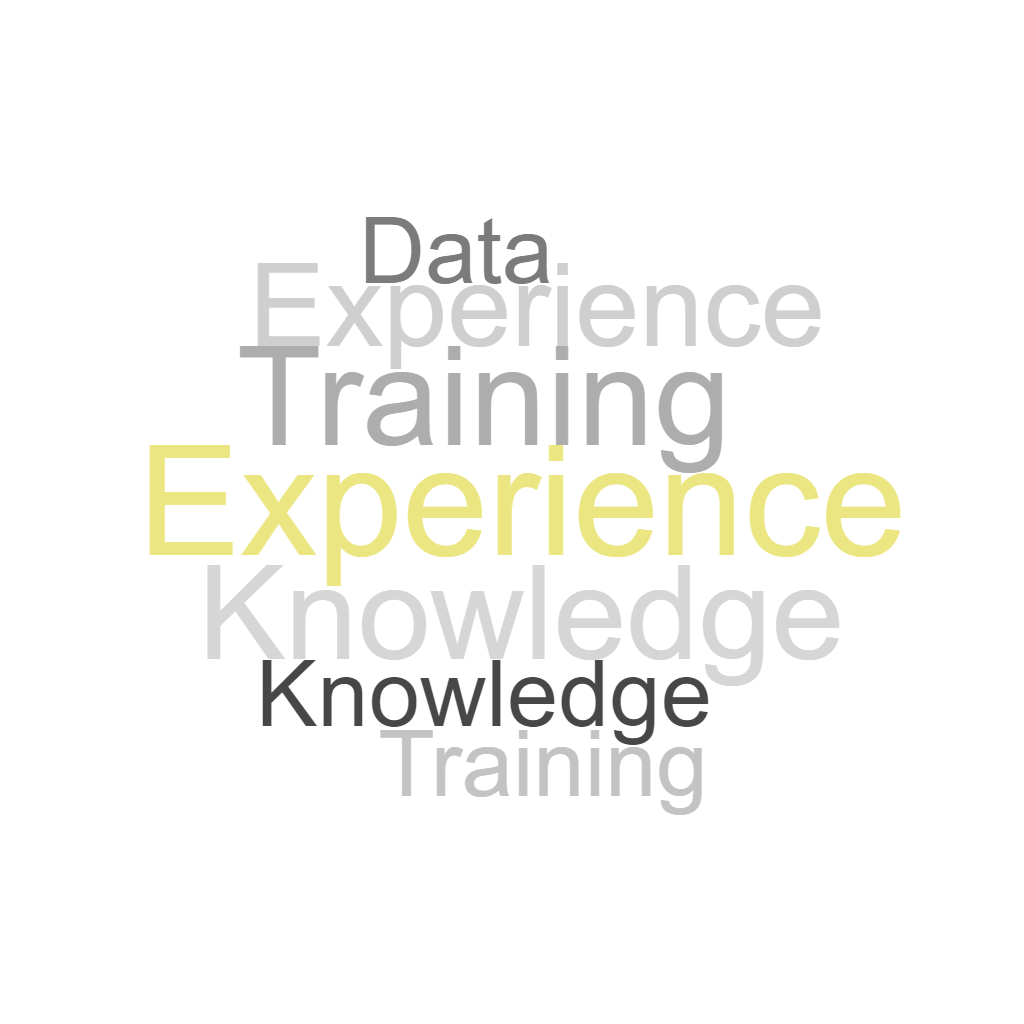
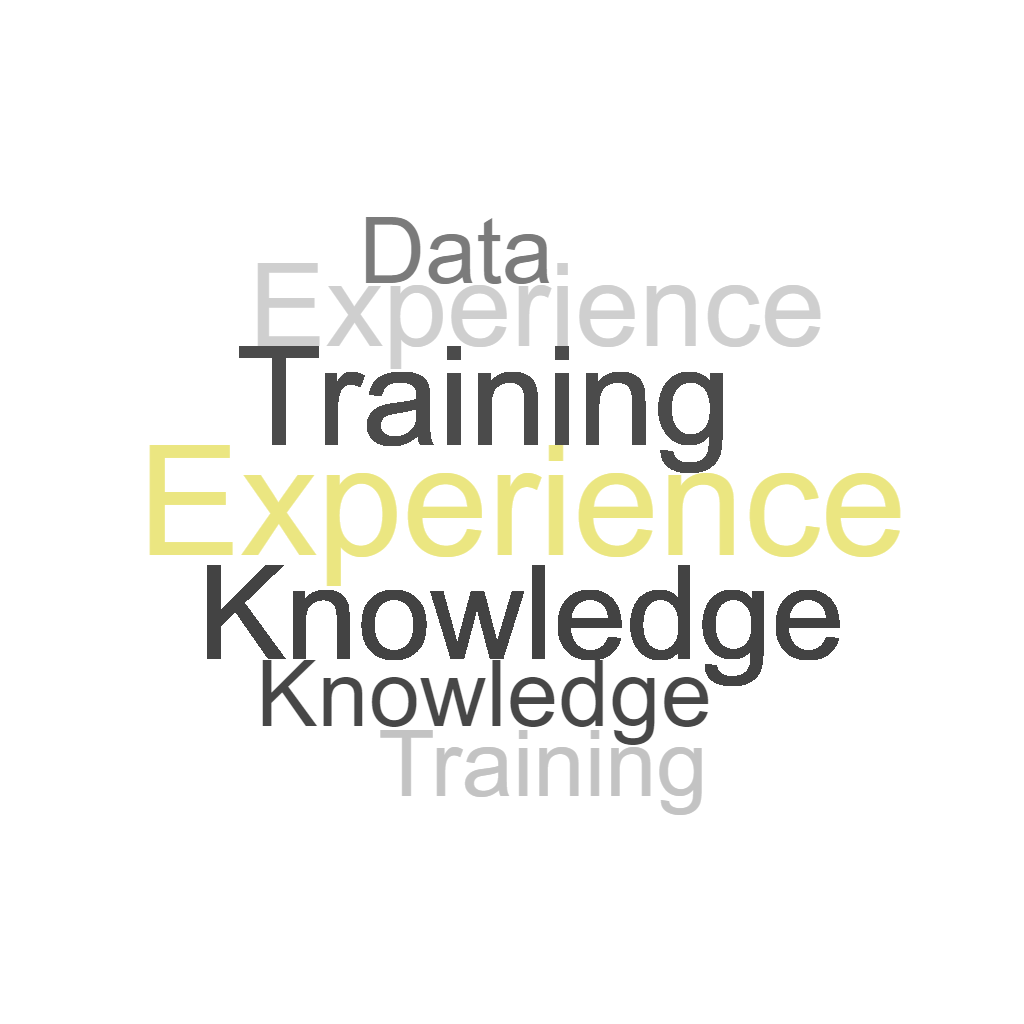
add game

Changed region(s): [[0.1875, 0.5312, 0.8438, 0.6875], [0.25, 0.3125, 0.7188, 0.4688]]

diff --git a/script.js b/script.js
@@ -1,6 +1,6 @@
 let numPhoto = 2;
 var i=0,j=0,k=0;
-var speed=70;
+var speed=200;
 var arrowOption = "exp";
 var expi = 0, proji = 0;
 const summary = "Hello! My name is Alex Torres. I am pursuing the Google Data Analytics Certificate. Prior to this, I got a JavaScript Developer certificate from W3Schools. Also, I studied Systems Engineering and Business. In my previous experience I resolved management problems. To achieve this, I not only use my management skills also I developed applications and tools that use data to make decisions. Now, I am working to upgrade my professional skills because I’m Interested to excel as a developer or data analyst.";
@@ -16,11 +16,12 @@ const experiences = [["Web developer - Freelancer","Volar, Seattle, WA","01/2021
 const project = "-------------------------PROJECTS-------------------------";
 const projects =  [["Web Development","Designed, built, and developed a websites using WordPress, Shopify, HTML, CSS, JavaScript, Bootstrap.","• Portfolio • Seattle, WA	• 04/2022 • <a href='https://alextorreswa.github.io/portfolio/' target='_blank'>Web page</a> • <a href='https://github.com/alextorreswa/portfolio' target='_blank'>Git Hub</a> <br/> • Task List Web Application • Washington DC	• 03/2022 • <a href='https://alextorreswa.github.io/taskList/' target='_blank'>Web page</a> • <a href='https://github.com/alextorreswa/taskList' target='_blank'>Git Hub</a> <br/>• Tourist Agency • Seattle, WA	• 03/2022 • <a href='https://alextorreswa.github.io/CozumelTours/' target='_blank'>Web page</a> • <a href='https://github.com/alextorreswa/CozumelTours' target='_blank'>Git Hub</a> <br/>• Centro Familiar Cristiano • Seattle, WA	• 11/2021 • <a href='https://cfcwa.com/' target='_blank'>Web page</a> <br/>• Orkid Web Pet Store • Seattle, WA	11/2018"],
                   ["Databases and Web Application","Design and build of relational databases with forms, SQL queries, reports, web forms, dashboards. Collect data, Analysis and Visualization","• Administrative System Information • Perenco Oil Company • 06/2015 <br/>• Maintenance Database  • Perenco Oil Company • 12/2007 <br/>• Corporate Social Responsibility Database • Perenco Oil Company • 12/2006 <br/>• Medical Appointments Application • Capresoca IPS • 06/2003"]];
-const skills = ["DATA ANALYSIS","DATA CLEANSING","SQL","R PROGRAMMING","RSTUDIO","SPREADSHEETS","TABLEAU","DATA COLLECTION","METADATA","DATA ETHICS","HTML","CSS","JAVASCRIPT","BOOTSTRAP","VBA","MS ACCESS","MS EXCEL","ASP.NET","SHOPIFY","WORDPRESS","GITHUB","COREL SUIT","SCRUM","BASH","SAP","BILINGUAL","SPANISH"];                   
+const skills = ["DATA∙ANALYSIS","DATA∙CLEANSING","SQL","R∙PROGRAMMING","RSTUDIO","SPREADSHEETS","TABLEAU","DATA∙COLLECTION","METADATA","DATA∙ETHICS","HTML","CSS","JAVASCRIPT","BOOTSTRAP","VBA","MS∙ACCESS","MS∙EXCEL","ASP∙NET","SHOPIFY","WORDPRESS","GITHUB","COREL∙SUIT","SCRUM","BASH","SAP","BILINGUAL","SPANISH"];                   
 let skillsShuffle =  shuffle(skills);
+skillsShuffle.unshift("AVOID∙∙∙LETTERS","∙∙∙∙∙∙AND∙∙∙∙∙∙","USE∙∙THE∙ARROWS","<∙∙∙GO∙∙UP!∙∙∙>","PLAY∙THIS∙GAME!","KNOW∙∙MY∙SKILLS");
 //console.log(skillsShuffle);
 let matrix = [];
-let gameY = 0, gameX = 0;
+let gameY = 0, gameX = 7;
 
 /////////////////////////////////////////////////////////////////////////////////////
 //                      GAME SKILLS
@@ -61,10 +62,13 @@ function Matrix() {
 
       if(skillsShuffle[i+1]!==undefined && (str.length+skillsShuffle[i+1].length<=14)){
          str.push('∙');
-         str.push.apply(str,skillsShuffle[i+1].split(''))
-         //console.log(str);         
+         str.push.apply(str,skillsShuffle[i+1].split(''))      
          i++;
       }        
+
+      if ((y)%3!=0) {
+         x=15-str.length;
+      }
 
       for(j in str) {
          matrix[y][x] = str[j];
@@ -73,7 +77,26 @@ function Matrix() {
       x=0;
       y=y+2;           
    }
-
+ 
+   str = ["*","*","*","*","*","*","*","*","*","*","*","*","*","*","*"]
+   for(j in str) {
+      matrix[y][x] = str[j];    
+      x++;   
+   }
+   x=0;
+   y=y+2;   
+   for(j in str) {
+      matrix[y][x] = str[j];    
+      x++;   
+   }
+   str = ["<","-","Y","O","U"," ","D","I","D"," ","I","T","!","-",">"]
+   x=0;
+   y=y-1;     
+   for(j in str) {
+      matrix[y][x] = str[j];    
+      x++;   
+   }   
+   
 }
 FillMatrix();
 Matrix();
@@ -86,19 +109,50 @@ function renderMatrix(start) {
    for(index=start;index<=start+11;index++) {
       cad = matrix[index].join('') + '<br/>' + cad;
    }   
-   document.getElementById("game").innerHTML = cad;
+   document.getElementById("game").innerHTML = cad;      
 }
+
+function renderCursorGame() {
+   let cad = "";   
+   for(index=0;index<gameX;index++) {
+      cad += "&nbsp";
+   }    
+   cad += "█";
+   document.getElementById("gameCursor").innerHTML = cad;   
+}
+
 
 document.addEventListener('keydown', (event) => {
    const keyName = event.key;
-   if(event.key == 'ArrowUp'){   
-      alert("hola");      
-      gameY++;
+   if(event.key == 'ArrowUp'){      
+      if (gameY<=60) gameY++;
       renderMatrix(gameY);   
+      evalGame();      
    } 
-
+   if(event.key == 'ArrowDown'){     
+      if (gameY>0) gameY--;      
+      renderMatrix(gameY);  
+      evalGame();       
+   } 
+   if(event.key == 'ArrowLeft'){   
+      if (gameX>0) gameX--;      
+      renderCursorGame();
+      evalGame();      
+   } 
+   if(event.key == 'ArrowRight'){   
+      if (gameX<14) gameX++;
+      renderCursorGame();
+      evalGame();
+   } 
  });
 
+ function evalGame() {
+   if(matrix[gameY][gameX]=="*") {
+      alert("YOU WON!");
+   } else if(matrix[gameY][gameX]!="∙") {
+      alert("Oh Noooo! You touched a letter.");
+   }   
+ }
 
 
 // console.log(matrix);
@@ -118,7 +172,7 @@ document.getElementById("arrowDown").onmouseup = function() {arrowDownClick()};
 document.getElementById("arrowUp").onmouseup = function() {arrowUpClick()};
 document.getElementById("project").onmouseup = function() {projectClick()};
 document.getElementById("resume").onmouseup = function() {resumeClick()};
-
+document.getElementById("game").onmouseenter = function() {showInstructions()};
 
 
 ////////////////////////////////////////////////////////////////
@@ -169,7 +223,6 @@ function experienceClick(){
    typeWriterXLine();
    arrowOption = "exp";
    renderExp();
-   console.log(expi);
 }
 
  function typeWriterXLine() {
@@ -211,7 +264,6 @@ function projectClick(){
    typeWriterPLine();
    arrowOption = "proj";
    renderProj();
-   console.log(expi);
 }
 
  function typeWriterPLine() {
@@ -265,6 +317,11 @@ function arrowUpClick() {
 //                   SUPPORT FUNCTIONS 
 ///////////////////////////////////////////////
 
+function showInstructions() {
+   alert("Entre");
+   document.getElementById("invitation").hidden = true;
+}
+
 function resumeClick(){
    window.open("./resume.pdf");
 }
@@ -282,7 +339,9 @@ function hideTitles() {
    document.getElementById("name").style.visibility = "hidden";
    document.getElementById("project").style.visibility = "hidden";
    document.getElementById("resume").style.visibility = "hidden";
-   document.getElementById("experience").style.visibility = "hidden";     
+   document.getElementById("experience").style.visibility = "hidden";  
+   document.getElementById("game").style.visibility = "hidden";   
+   document.getElementById("gameCursor").style.visibility = "hidden";           
 }
 
 function showTitles() {
@@ -293,5 +352,7 @@ function showTitles() {
    document.getElementById("name").style.visibility = "visible";
    document.getElementById("project").style.visibility = "visible";
    document.getElementById("resume").style.visibility = "visible";
-   document.getElementById("experience").style.visibility = "visible";    
+   document.getElementById("experience").style.visibility = "visible"; 
+   document.getElementById("game").style.visibility = "visible";   
+   document.getElementById("gameCursor").style.visibility = "visible";         
 }

diff --git a/style.css b/style.css
@@ -125,7 +125,7 @@ h4 {
    text-align: center;  
    color: white;   
    background-size:77%;
-   background-position: 50% 50%;
+   background-position: 47% 50%;
    background-image: url('./projects.png'); 
    box-shadow: 2px 2px 2px 1px rgba(235, 0, 0, 0.658);   
  }
@@ -145,7 +145,7 @@ h4 {
    margin: 20px 10px; 
    color: white;   
    background-size:180%;
-   background-position: 20% 45%;
+   background-position: 13% 46%;
    background-image: url('./resume.png');
    box-shadow: 2px 2px 2px 1px rgba(69, 180, 69, 0.658);
  }
@@ -163,7 +163,7 @@ h4 {
    margin: 20px 10px; 
    text-align: center; 
    background-size:90%;
-   background-position: 30% 48%;
+   background-position: 40% 50%;
    background-image: url('./experience.png');   
    box-shadow: 2px 2px 2px 1px rgba(252, 228, 11, 0.658);
  }
@@ -191,8 +191,8 @@ h4 {
 
 
 .thirteen {
-  /* display: inline;
-  visibility: hidden; */
+  display: inline;
+  /* visibility: hidden; */
   grid-row: 7 / 12;
   grid-column: 12 / 14;
   margin-right: 45px;
@@ -214,6 +214,37 @@ h4 {
   font-size:large;
   font-family: monospace;
   color: aquamarine;
+}
+
+#invitation {
+  background-color:rgba(46, 46, 46, 0.644);
+  grid-row: 7 / 12;
+  grid-column: 12 / 14;
+  margin-right: 45px;
+  margin-bottom: 5px;
+  margin-top: 5px;  
+}
+
+#invitation h4 {
+  margin-top: 10px;
+  margin-bottom: 10px;
+  font-size: x-large;
+  text-align: center;
+  /* transform: rotate(-90deg);; */
+}
+
+#invitation h2 {
+  font-size: large;
+  color: #fff;
+  margin-top: 10px;
+  margin-bottom: 10px;  
+  text-align: center;  
+}
+
+#invitation p {
+  color: #fff;
+  text-align: center;
+  font-family: Arial, Helvetica, sans-serif;
 }
 
 .ten {

diff --git a/index.html b/index.html
@@ -64,13 +64,21 @@
             <p id="textScreenDetailParag" class="textScreenDetailStyle"></p>
          </div>                                 
       </div>
-      <div id="arrowDown" class="thirteen" >
+      <div id="areaGame" class="thirteen"  >
          <p id="game"></p>
       </div>
 
-      <div id="arrowDown" class="thirteen" >
-         <p id="gameCursor">█</p>
+      <div class="thirteen" >
+         <p id="gameCursor">&nbsp&nbsp&nbsp&nbsp&nbsp&nbsp&nbsp█</p>
       </div>
+
+      <div id="invitation" hidden="false" >
+         <h4>SKILLS?</h4>
+         <h2>Discover them and have fun with this minigame</h2>
+         <p>Go up! <br/> Use the arrows and avoid the letters <br/>  <br/> <button>PLAY</button></p>
+         
+      </div>
+      
    </div>
    <script src="./script.js"></script>
 </body>
